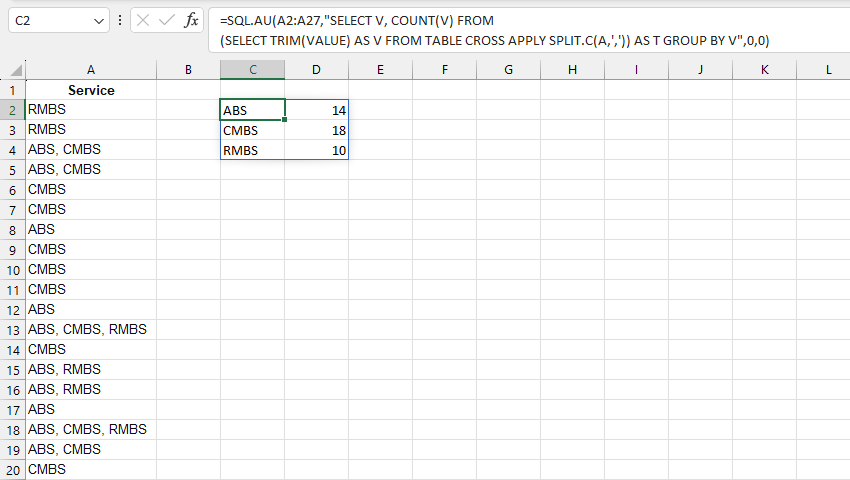
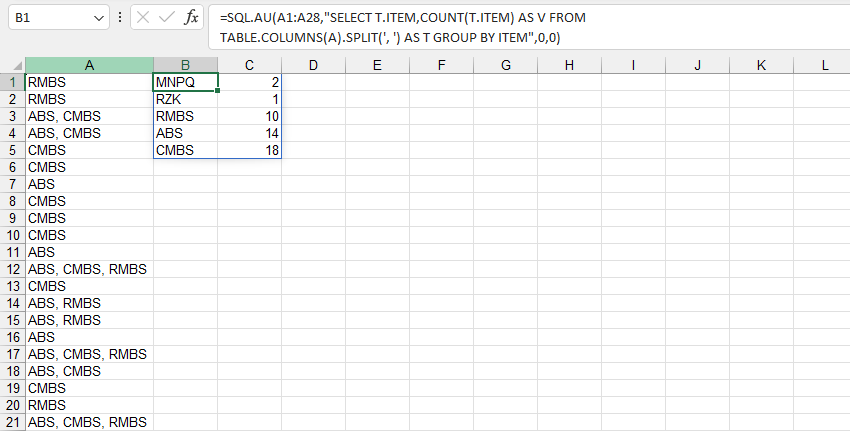
ok

diff --git a/sql.html b/sql.html
@@ -42,7 +42,7 @@
   <img src="gif/sql.pivot.png">
 
   <blockquote>
-    <p>&nbsp;VD5: Nhóm các tiêu chí tại cột B theo nhóm cột C.</p>
+    <p>&nbsp;VD5: Nhóm các chỉ mục tại cột B theo nhóm cột C.</p>
   </blockquote>
   <img src="gif/sql.groupconcat.png">
 
@@ -61,8 +61,8 @@
   </blockquote>
   <img src="gif/sql.mostsequence.png">
 
-  <code class="language-xls" style="word-spacing: -3px;"><span class="token operator">=</span><a class="token function" href="/sql">SQL.AU</a><span class="token punctuation">(</span><span class="token range selector">A2:A27</span><span class="token punctuation">,</span><span class="token string">"SELECT V, COUNT(V) FROM (SELECT TRIM(VALUE) AS V FROM TABLE CROSS APPLY SPLIT.C(A,',')) AS T GROUP BY V"</span><span class="token punctuation">,</span><span class="token number">0</span><span class="token punctuation">,</span><span class="token number">0</span><span class="token punctuation">)</span></code>
-  
+  <!-- <code class="language-xls" style="word-spacing: -3px;"><span class="token operator">=</span><a class="token function" href="/sql">SQL.AU</a><span class="token punctuation">(</span><span class="token range selector">A2:A27</span><span class="token punctuation">,</span><span class="token string">"SELECT V, COUNT(V) FROM (SELECT TRIM(VALUE) AS V FROM TABLE CROSS APPLY SPLIT.C(A,',')) AS T GROUP BY V"</span><span class="token punctuation">,</span><span class="token number">0</span><span class="token punctuation">,</span><span class="token number">0</span><span class="token punctuation">)</span></code> -->
+  <code class="language-xls" style="word-spacing: -3px;"><span class="token operator">=</span><a class="token function" href="/sql">SQL.AU</a><span class="token punctuation">(</span><span class="token range selector">A1:A28</span><span class="token punctuation">,</span><span class="token string">"SELECT T.ITEM,COUNT(T.ITEM) AS V FROM TABLE.COLUMNS(A).SPLIT(', ') AS T GROUP BY ITEM"</span><span class="token punctuation">,</span><span class="token number">0</span><span class="token punctuation">,</span><span class="token number">0</span><span class="token punctuation">)</span></code>
   <p tabindex="-1" dir="auto">
     <note>
        <svg class="octicon octicon-link" viewBox="0 0 16 16" version="1.1" width="16" height="16"
